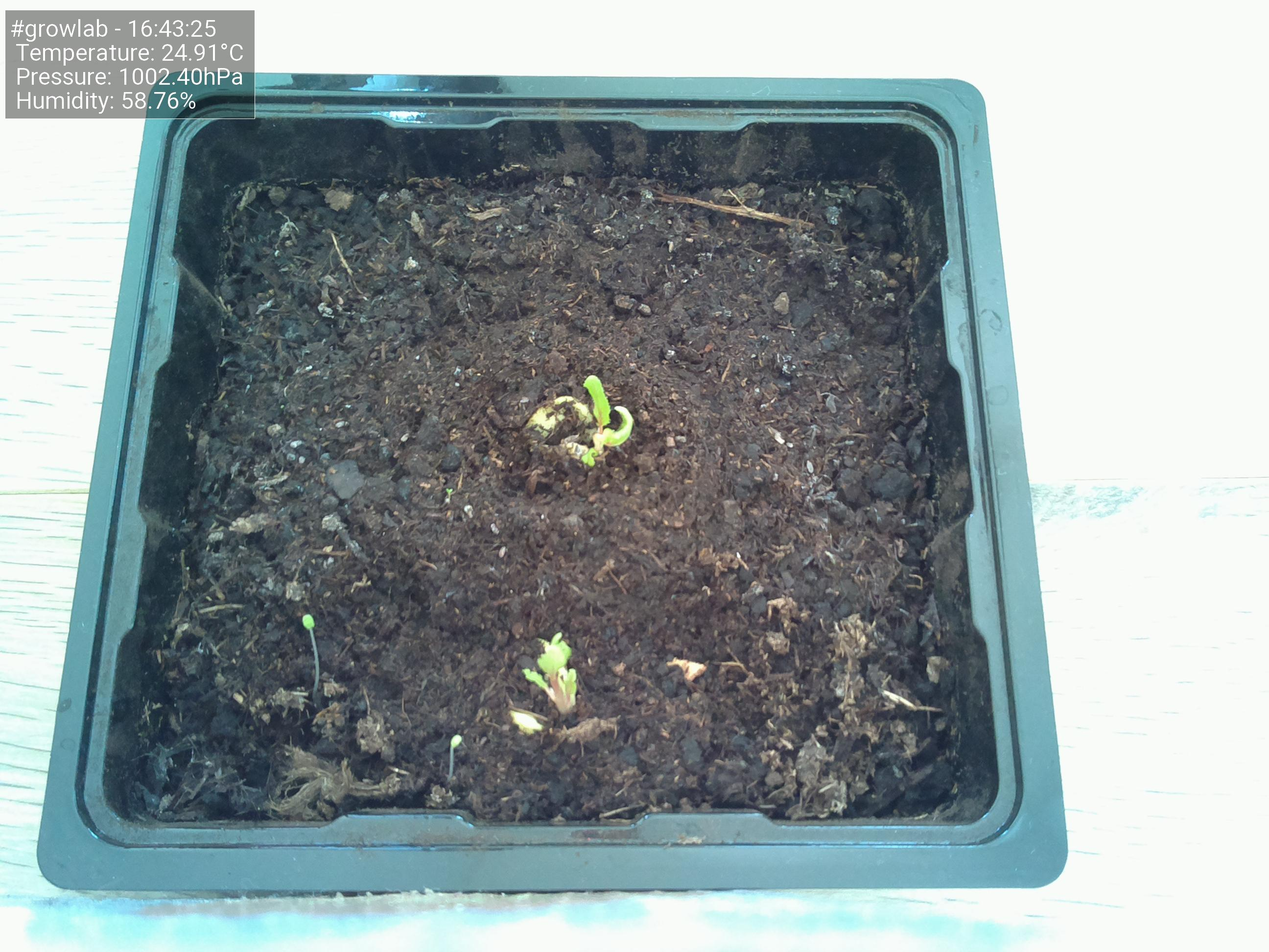
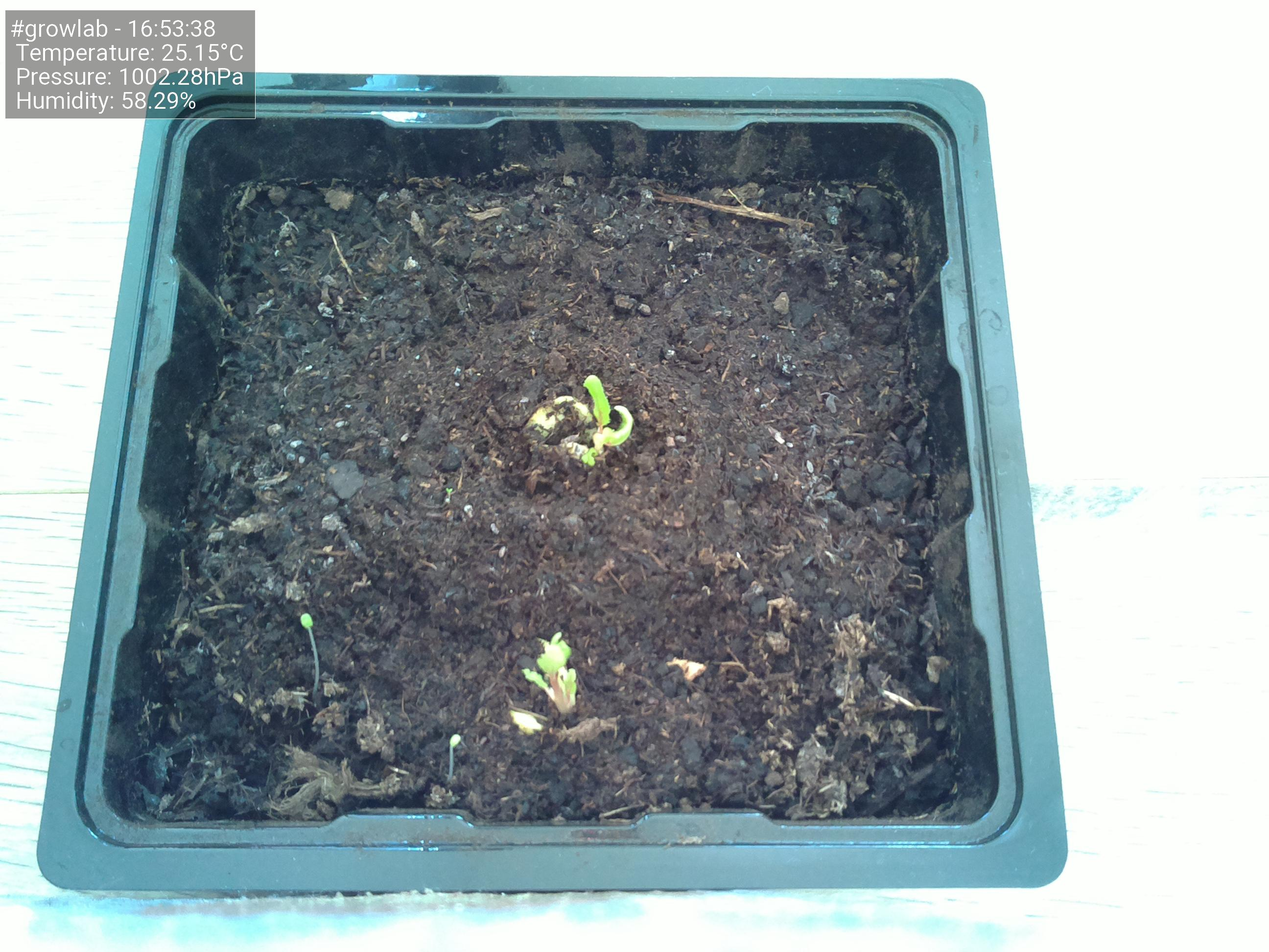
Update images at Sun  6 Jun 16:53:42 CEST 2021

diff --git a/docs/index.html b/docs/index.html
@@ -47,19 +47,19 @@
                         <tbody>
                             <tr>
                                 <td>Time</td>
-                                <td>16:43:25</td>
+                                <td>16:53:38</td>
                             </tr>
                             <tr>
                                 <td>Temperature</td>
-                                <td>24.91°C</td>
+                                <td>25.15°C</td>
                             </tr>
                             <tr>
                                 <td>Humidity</td>
-                                <td>58.76%</td>
+                                <td>58.29%</td>
                             </tr>
                             <tr>
                                 <td>Pressure</td>
-                                <td>1002.40hPa</td>
+                                <td>1002.28hPa</td>
                             </tr>
                         </tbody>
                     </table>
@@ -67,7 +67,7 @@
 
                 <h5>Latest image</h5>
                 <div style="width: 85%;">
-                            <img class="figure-img img-fluid rounded" src="./preview.jpg?uid=1622990609.0946147">
+                            <img class="figure-img img-fluid rounded" src="./preview.jpg?uid=1622991222.4795885">
                 </div>
             </div>
         </div>
